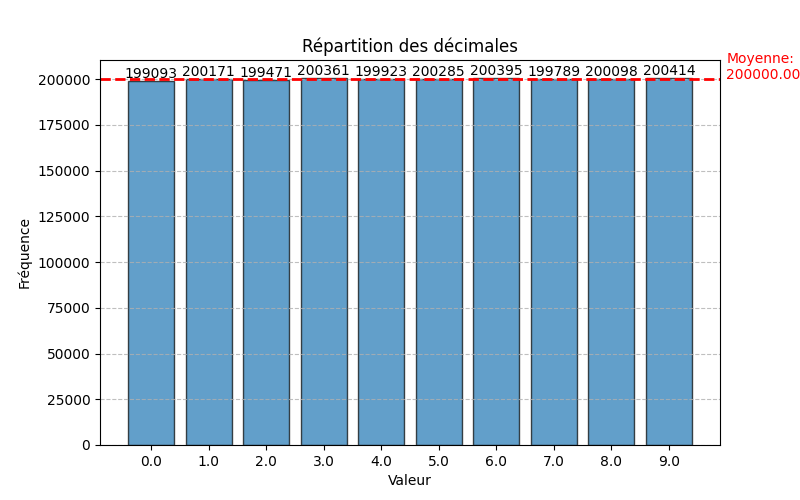
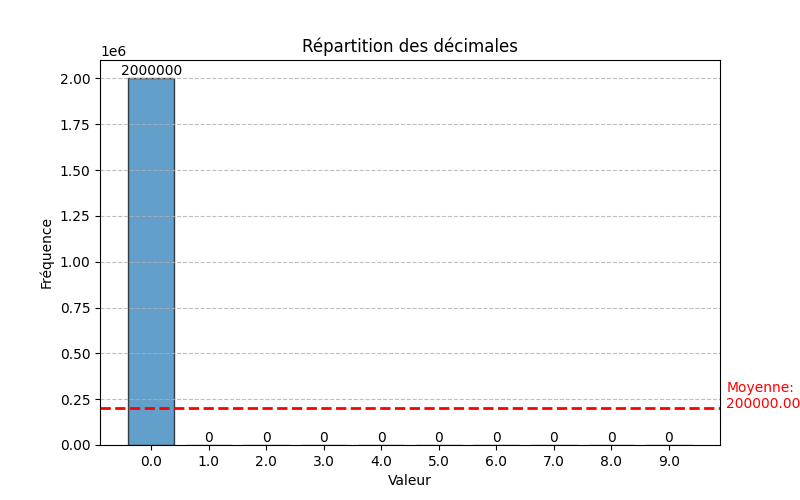
Create GapTest

diff --git a/src/tests/gap_test.py b/src/tests/gap_test.py
@@ -1,0 +1,55 @@
+from collections import Counter
+
+import numpy as np
+
+from tests.khi_square import KhiSquareTest
+
+
+class GapTest:
+
+    @staticmethod
+    def compute(samples: list, a: float = 0, b: float = 0.5, max_gap_size: int = 10):
+        #should add a, b check ( 0 ≤ a < b ≤ 1 )
+
+        p = b-a #probability to be in interval
+        gaps, marked_index = GapTest.__make_gaps(a, b, samples)
+
+        #gaps_counter_dict = Counter(gaps)
+        gaps_counts = GapTest.__count_gaps(gaps, max_gap_size)
+
+        expected_probs = p * (1 - p) ** np.arange(max_gap_size)
+        expected_probs[-1] += (1 - p) ** max_gap_size  # Last category (gap >= max_gap)
+
+        expected_gaps_counts = expected_probs * len(gaps)
+
+        print(expected_gaps_counts, gaps_counts)
+        khi_square_stat = KhiSquareTest.compute(gaps_counts, expected_gaps_counts)
+        print(f"GAP TEST:\n -khi square value: {khi_square_stat}")
+
+    @staticmethod
+    def __make_gaps(a: float, b: float = 0, samples: list = 0.5):
+        marked_index = []
+        gaps = []
+        gap_size = 0
+        in_gap = True
+        for i, number in enumerate(samples):
+            if a <= number < b:
+                marked_index.append(i)  # mark number in interval
+                if in_gap:  # find new number in interval, gap end
+                    gaps.append(gap_size)
+                    in_gap = False
+                gap_size = 0
+            else:
+                in_gap = True
+                gap_size += 1
+        return gaps, marked_index
+
+    @staticmethod
+    def __count_gaps(gaps: list, max_gap_size: int):
+        gap_counts = [0] * max_gap_size
+        for g in gaps:
+            if g <= max_gap_size:
+                gap_counts[g-1] += 1
+            else:
+                gap_counts[max_gap_size-1] += 1
+        return gap_counts

diff --git a/src/main.py b/src/main.py
@@ -1,4 +1,5 @@
 from histogram import Histogram, PlotType
+from tests.gap_test import GapTest
 from tests.coupon_collector_test import CouponCollectorTest
 from tests.poker_test import PokerTest
 from tests.khi_square import KhiSquareTest
@@ -34,7 +35,7 @@ def global_test(data: list):
     print("\n ------------------Coupon Collector------------------\n")
 
     CouponCollectorTest.compute(data, 5)
-    # gap = GapTest.compute(samples=data)
+
 
     print("\n -----------------End Test----------------\n")
 
@@ -54,7 +55,7 @@ def decimal_test(file_path: str, num_interval: int = 10, range_max: int = 10):
     
     iterator = EIterator(file_path = file_path)
     
-    generator = EGenerator(iterator = iterator, num_decimals = 1, period = 1, prefix = "")
+    generator = EGenerator(iterator = iterator, num_decimals = 1, period = 1)
     
     data = generator.generate_all_value()
     
@@ -73,6 +74,8 @@ def decimal_test(file_path: str, num_interval: int = 10, range_max: int = 10):
     test_kolmogorov_smirnov(data = data)
     
     print("\n -------------End Decimal Test------------\n")
+
+    GapTest.compute(samples=data)
 
 if __name__ == "__main__":
     
